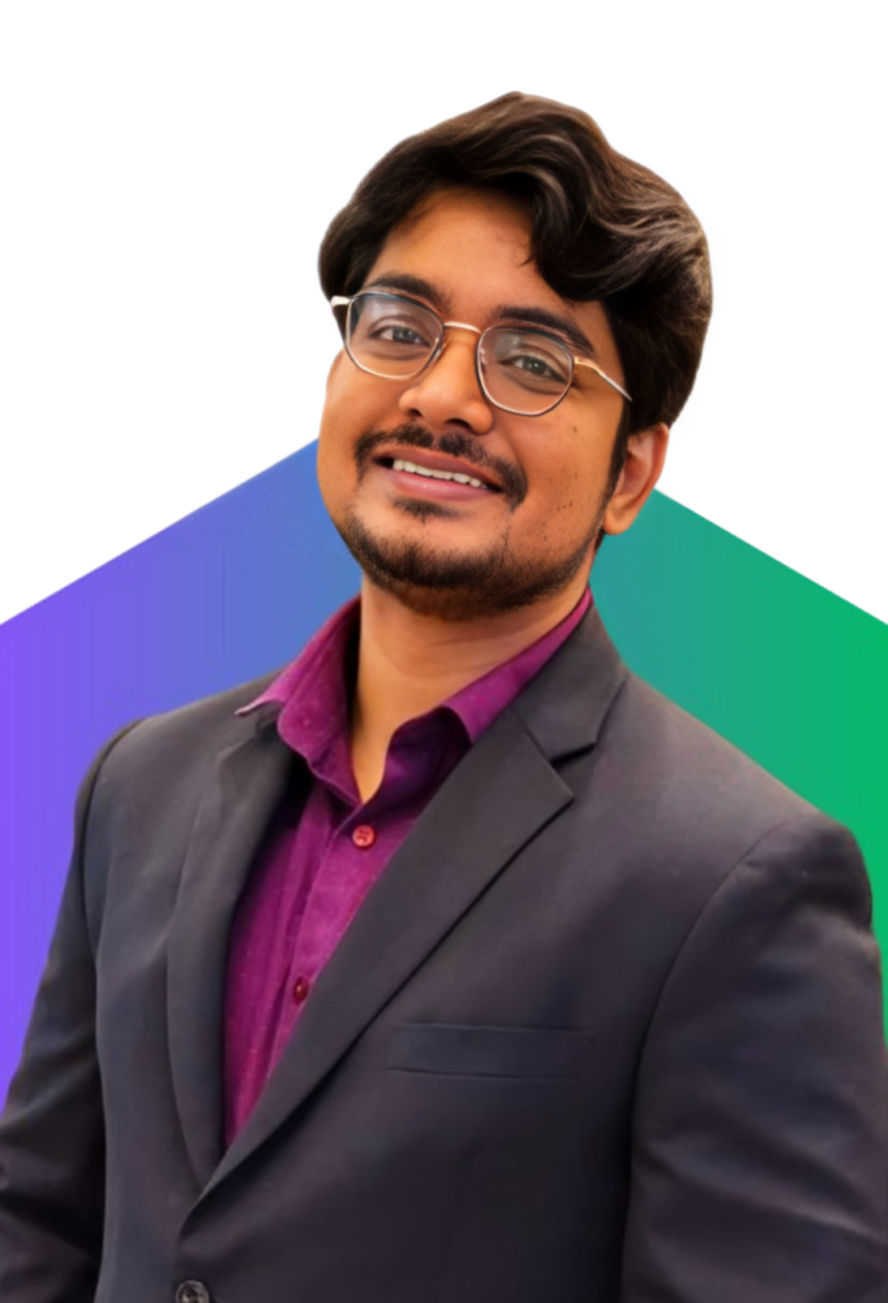
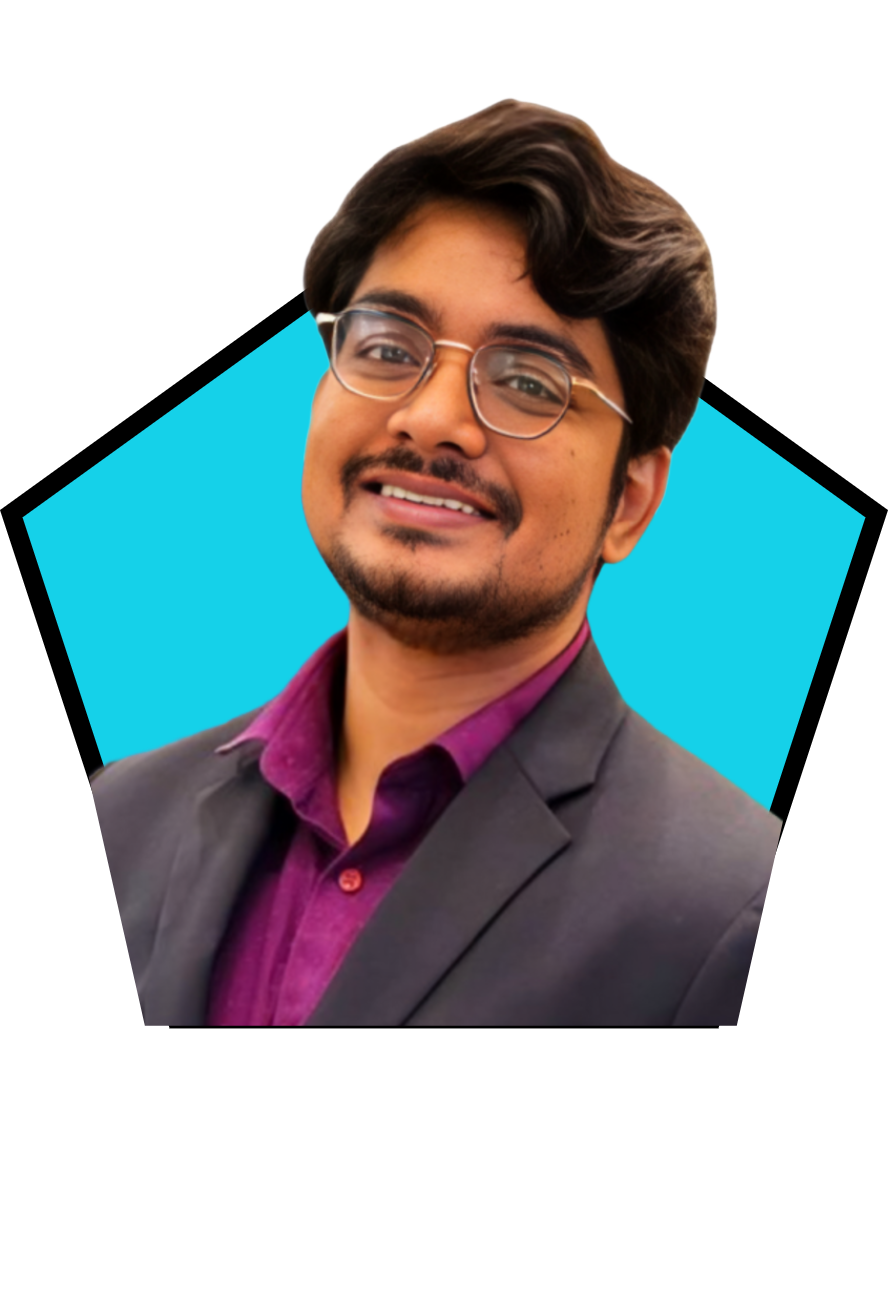
Update HeroSection

diff --git a/src/components/heroSection/HeroText.jsx b/src/components/heroSection/HeroText.jsx
@@ -1,0 +1,23 @@
+import React from 'react'
+
+const HeroText = () => {
+  return (
+    <div className='flex flex-col gap-4 h-full justify-center md:text-left
+    sm:text-center bg-white p-5 rounded-3xl border-[0.5px]
+     border-darkGrey hover:shadow-cyanShadow transition-all 
+     duration-500 cursor-default'>
+        <h2 className='lg:text-2xl sm:text-xl uppercase text-darkGrey'>
+            Software Engineer
+        </h2>
+        <h1 className='md:text-[2.8rem] lg:text-6xl sm:text-4xl font-bold
+        font-special text-darkGrey'>
+            Md Taskin Hossain
+        </h1>
+        <p className='text-lg mt-4 text-darkGrey'>
+            A passionate software engineer.<br/>Always striving for knowledge and skills.
+        </p>
+    </div>
+  )
+}
+
+export default HeroText

diff --git a/src/index.css b/src/index.css
@@ -7,6 +7,7 @@
   --color-lightBrown: #645550;
   --color-darkBrown: #2c2523;
   --color-black: #212529;
+  --color-darkBlack: #000000;
   --color-white: #f8f9fa;
   --color-cyan: #15d1e9;
   --color-lightCyan: #88e5f0;
@@ -20,12 +21,14 @@
   --font-body: "Josefin Sans", "sans-serif"; 
   --font-special: "Roboto", "sans-serif";
   --shadow-cyanShadow: 0px 0px 20px 0px rgba(94, 206, 220, 0.5);
+  --shadow-cyanMediumShadow: 10px 10px 200px 150px rgba(94, 206, 220, 0.5);
   --shadow-blackShadow: 0px 0px 20px 0px rgba(33, 37, 41, 0.5);
+  --shadow-whiteShadow: 10px 10px 200px 150px rgb(248, 249, 250, 0.5);
   --breakpoint-sm: 350px;
   --breakpoint-md: 768px;
   --breakpoint-lg: 1024px;
   --breakpoint-xl: 1280px;
-  --breakpoint-xxl: 1536px;
+  --breakpoint-2xl: 1536px;
 }
 
 body {

diff --git a/src/components/heroSection/HeroPic.jsx b/src/components/heroSection/HeroPic.jsx
@@ -1,0 +1,18 @@
+import React from 'react'
+import { BsHexagon } from "react-icons/bs";
+
+const HeroPic = () => {
+  return (
+    <div className='h-full flex items-center justify-center '>
+        <img src='../../public/images/HexaPic.png' alt='Taskin'
+        className='max-h-[450px] w-auto '>
+        </img>
+        <div className='absolute -z-10 flex justify-center items-center animate-pulse'>
+            <BsHexagon className='md:h-[90%] sm:h-[120%] min-h-[400px] 
+            w-auto text-cyan blur-md animate-[spin_20s_linear_infinite]'/>
+        </div>
+    </div>
+  )
+}
+
+export default HeroPic

diff --git a/src/components/heroSection/HeroGradient.jsx b/src/components/heroSection/HeroGradient.jsx
@@ -1,0 +1,18 @@
+import React from 'react'
+
+const HeroGradient = () => {
+  return (
+    <div>
+        <div className='shadow-cyanMediumShadow absolute top-0 right-[400px]
+        -z-10 animate-pulse'></div>
+        <div className='shadow-whiteShadow absolute top-0 right-0
+        -z-10 animate-pulse'></div>
+        <div className='shadow-cyanMediumShadow absolute top-[300px]
+        left-0 -z-10 opacity-50'></div>
+        <div className='shadow-whiteShadow absolute top-[500px]
+        left-0 -z-10 opacity-50'></div>
+    </div>
+  )
+}
+
+export default HeroGradient

diff --git a/src/components/heroSection/SubHeroSection.jsx b/src/components/heroSection/SubHeroSection.jsx
@@ -1,0 +1,15 @@
+import React from 'react'
+
+const SubHeroSection = () => {
+  return (
+    <div className='w-full border-y border-lightGrey text-lightGrey
+    flex justify-around uppercase xl:text-4xl md:text-2xl sm:text-4xl
+    py-8 items-center gap-4 bg-darkGrey'>
+        <p className='md:block sm:hidden'>Fast Learner</p>
+        <p className='md:block sm:hidden'>Independent</p>
+        <p >Motivated</p>
+    </div>
+  )
+}
+
+export default SubHeroSection

diff --git a/src/App.jsx b/src/App.jsx
@@ -1,10 +1,15 @@
-import './App.css'
+import HeroGradient from './components/heroSection/HeroGradient'
+import HeroMain from './components/heroSection/HeroMain'
+import SubHeroSection from './components/heroSection/SubHeroSection'
 import NavbarMain from './components/navbar/NavbarMain'
 
 function App() {
   return (
     <main className='font-body'>
       <NavbarMain />
+      <HeroMain />
+      <HeroGradient />
+      <SubHeroSection />
     </main>
   )
 }

diff --git a/src/components/navbar/NavbarBtn.jsx b/src/components/navbar/NavbarBtn.jsx
@@ -6,7 +6,7 @@ const NavbarBtn = () => {
     <button className='px-4 py-2 rounded-full text-xl font-bold
      text-white flex items-center gap-1 
      bg-gradient-to-r from-black to-darkGrey hover:border-lightGrey hover:scale-110 
-     transition-all duration-500 hover:shadow-blackShadow'>
+     transition-all duration-500 hover:shadow-cyanShadow'>
       Hire Me!
       <div className='sm:hidden md:block'>
         <LuArrowDownRight />

diff --git a/src/components/heroSection/HeroMain.jsx b/src/components/heroSection/HeroMain.jsx
@@ -1,0 +1,17 @@
+import React from 'react'
+import HeroText from './HeroText'
+import HeroPic from './HeroPic'
+
+const HeroMain = () => {
+  return (
+    <div className='pt-40 pb-16'>
+        <div className='flex md:flex-row sm:flex-col max-w-[1200px] mx-auto
+        justify-between items-center relative px-4'>
+            <HeroText />
+            <HeroPic />
+        </div>
+    </div>
+  )
+}
+
+export default HeroMain

diff --git a/src/components/navbar/NavbarLogo.jsx b/src/components/navbar/NavbarLogo.jsx
@@ -3,7 +3,7 @@ import React from 'react'
 const NavbarLogo = () => {
   return (
     <div>
-      <h1 className='text-black text-2xl sm:hidden md:block'>
+      <h1 className='text-black text-2xl sm:hidden md:block cursor-default'>
         Md Taskin Hossain
       </h1>
       <h1 className='text-black font-special font-extrabold text-4xl
